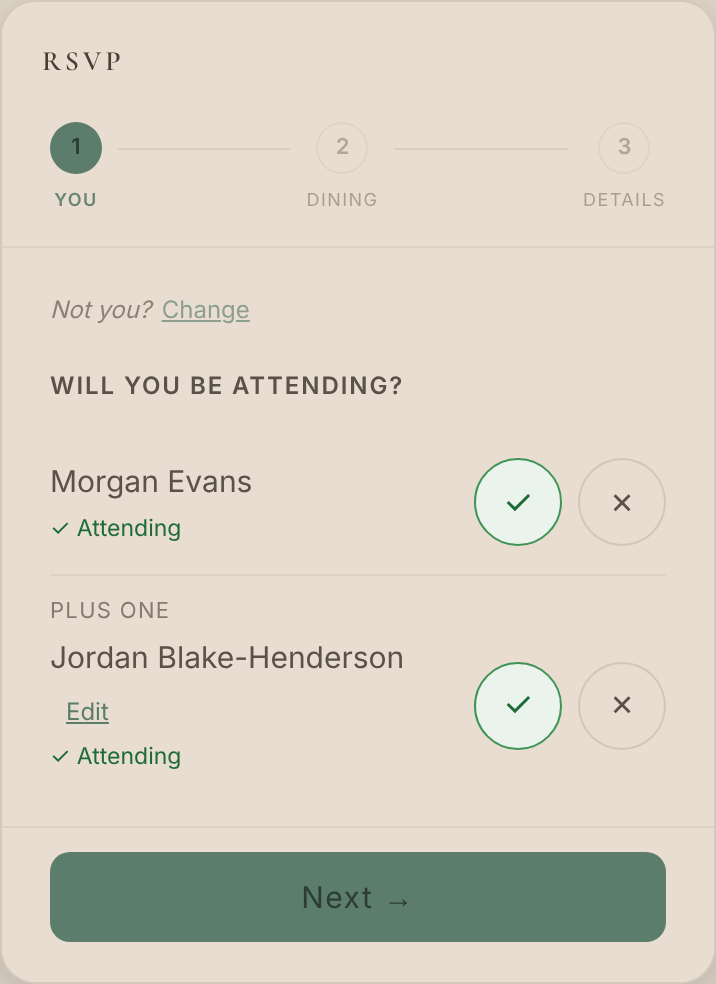
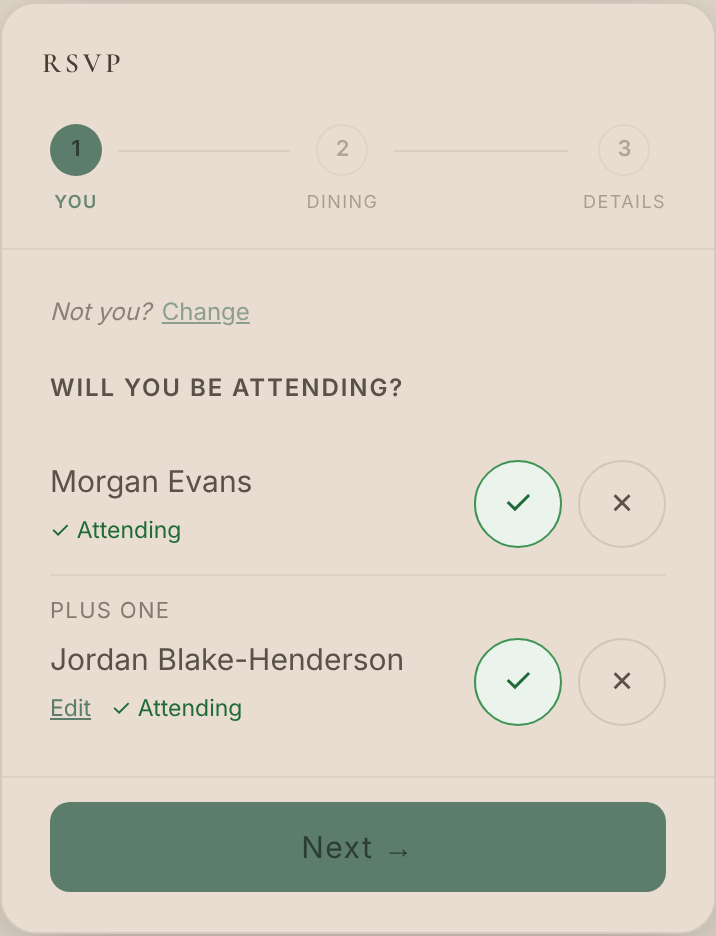
RSVP plus one: Edit sits bottom-left with the status beside it, under the name — pending review
Claude-Session: https://claude.ai/code/session_019ebu91FgpPSyuHTGFmYJXP

diff --git a/js/website.js b/js/website.js
@@ -5207,7 +5207,9 @@ function _wbBuildSite(forDownload){
 .plus-one-added .member-row{padding-top:2px}
 .plus-one-name-input.p1-box:focus{border-color:${_uvPal.accent}}
 .p1-nm{font-size:15px;color:${t2.text};overflow-wrap:anywhere}
-.p1-edit{background:none;border:none;padding:0;margin-left:8px;font-family:inherit;font-size:12px;color:${_uvPal.accent};text-decoration:underline;cursor:pointer}
+.p1-edit{background:none;border:none;padding:0;font-family:inherit;font-size:11.5px;color:${_uvPal.accent};text-decoration:underline;cursor:pointer}
+.p1-meta{display:flex;align-items:baseline;gap:10px;flex-wrap:wrap}
+.p1-meta .member-st{display:inline}
 .p1-slot .p1-box{width:100%}
 .plus-one-label{font-size:11px;letter-spacing:.06em;text-transform:uppercase;color:${t2.text};margin:0 0 4px;opacity:.7}
 .guest-section{padding:12px 0;text-align:left}
@@ -5576,15 +5578,22 @@ function _wbBuildSite(forDownload){
   function _p1Slot(pid){
     var nm=plus1Names[pid]||'';
     if(p1Edit[pid]||!String(nm).trim()) return '<input class="plus-one-name-input p1-box" type="text" placeholder="Their full name (required)" required aria-required="true" value="'+_esc(nm)+'" data-pid="'+pid+'" oninput="window._uvSetP1Name(this)" onblur="window._uvP1Done(this)" onkeydown="if(event.keyCode===13)this.blur()" autocomplete="name">';
-    return '<span class="p1-nm">'+_esc(nm)+'</span><button type="button" class="p1-edit" onclick="window._uvP1Edit(this)">Edit</button>';
+    return '<span class="p1-nm">'+_esc(nm)+'</span>';
+  }
+  // Line under the plus one: "Edit" (once a name is shown) on the left, then the status.
+  function _p1Meta(m){
+    var showEdit=m.att===true&&!p1Edit[m.id]&&String(plus1Names[m.id]||'').trim();
+    return (showEdit?'<button type="button" class="p1-edit" data-pid="'+m.id+'" onclick="window._uvP1Edit(this)">Edit</button>':'')+_attSt(m,'Attending','Not bringing one');
   }
   // Swap just the name slot (not the whole list) so a tap on ✓ / ✗ or Next still lands.
   function _p1Redraw(pid,focus){
     var sl=document.querySelector('.p1-slot[data-pid="'+pid+'"]');if(!sl)return;
     sl.innerHTML=_p1Slot(pid);
+    var mt=document.querySelector('.p1-meta[data-pid="'+pid+'"]');
+    var gm=group.filter(function(x){return x.id===pid;})[0];if(mt&&gm)mt.innerHTML=_p1Meta(gm);
     var inp=sl.querySelector('input');if(focus&&inp){inp.focus();var v=inp.value;inp.value='';inp.value=v;}
   }
-  window._uvP1Edit=function(btn){var sl=btn.closest('.p1-slot');if(!sl)return;var pid=sl.getAttribute('data-pid');p1Edit[pid]=true;_p1Redraw(pid,true);};
+  window._uvP1Edit=function(btn){var pid=btn.getAttribute('data-pid');if(!pid)return;p1Edit[pid]=true;_p1Redraw(pid,true);};
   window._uvP1Done=function(inp){var pid=inp.getAttribute('data-pid');p1Edit[pid]=false;if((plus1Names[pid]||'').trim())_p1Redraw(pid,false);_checkStep1();};
   function _renderAttendance(){
     var container=document.getElementById('attend-members');if(!container)return;
@@ -5604,7 +5613,7 @@ function _wbBuildSite(forDownload){
         // "+ Add their name" button if it's left empty.
         html+='<div class="plus-one-added"><p class="plus-one-label">Plus one</p><div class="member-row"><div class="member-name">'+
           (m.att===true?'<div class="p1-slot" data-pid="'+m.id+'">'+_p1Slot(m.id)+'</div>':'Will you be bringing a plus one?')+
-          _attSt(m,'Attending','Not bringing one')+'</div>'+_attBtns(i,m,'Bringing a plus one')+'</div></div>';
+          '<div class="p1-meta" data-pid="'+m.id+'">'+_p1Meta(m)+'</div></div>'+_attBtns(i,m,'Bringing a plus one')+'</div></div>';
       });
     }
     container.innerHTML=html;
